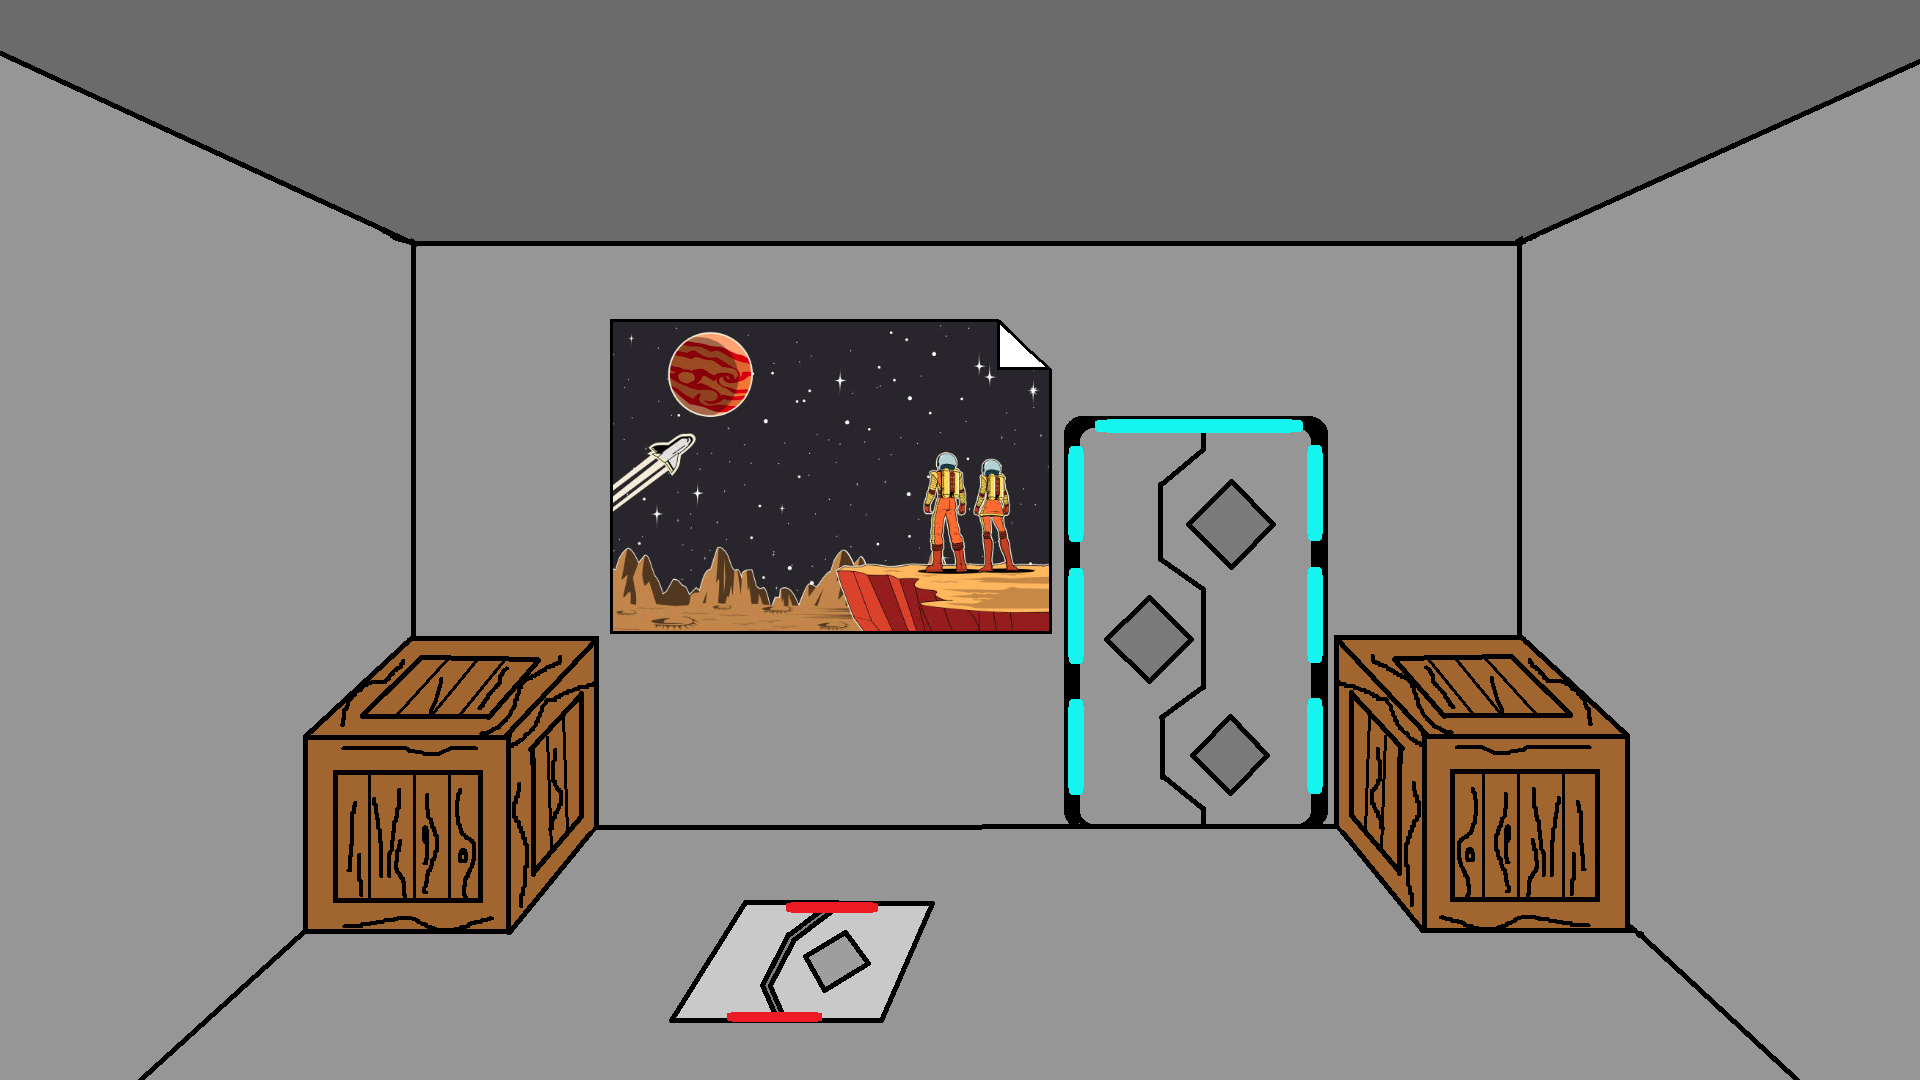
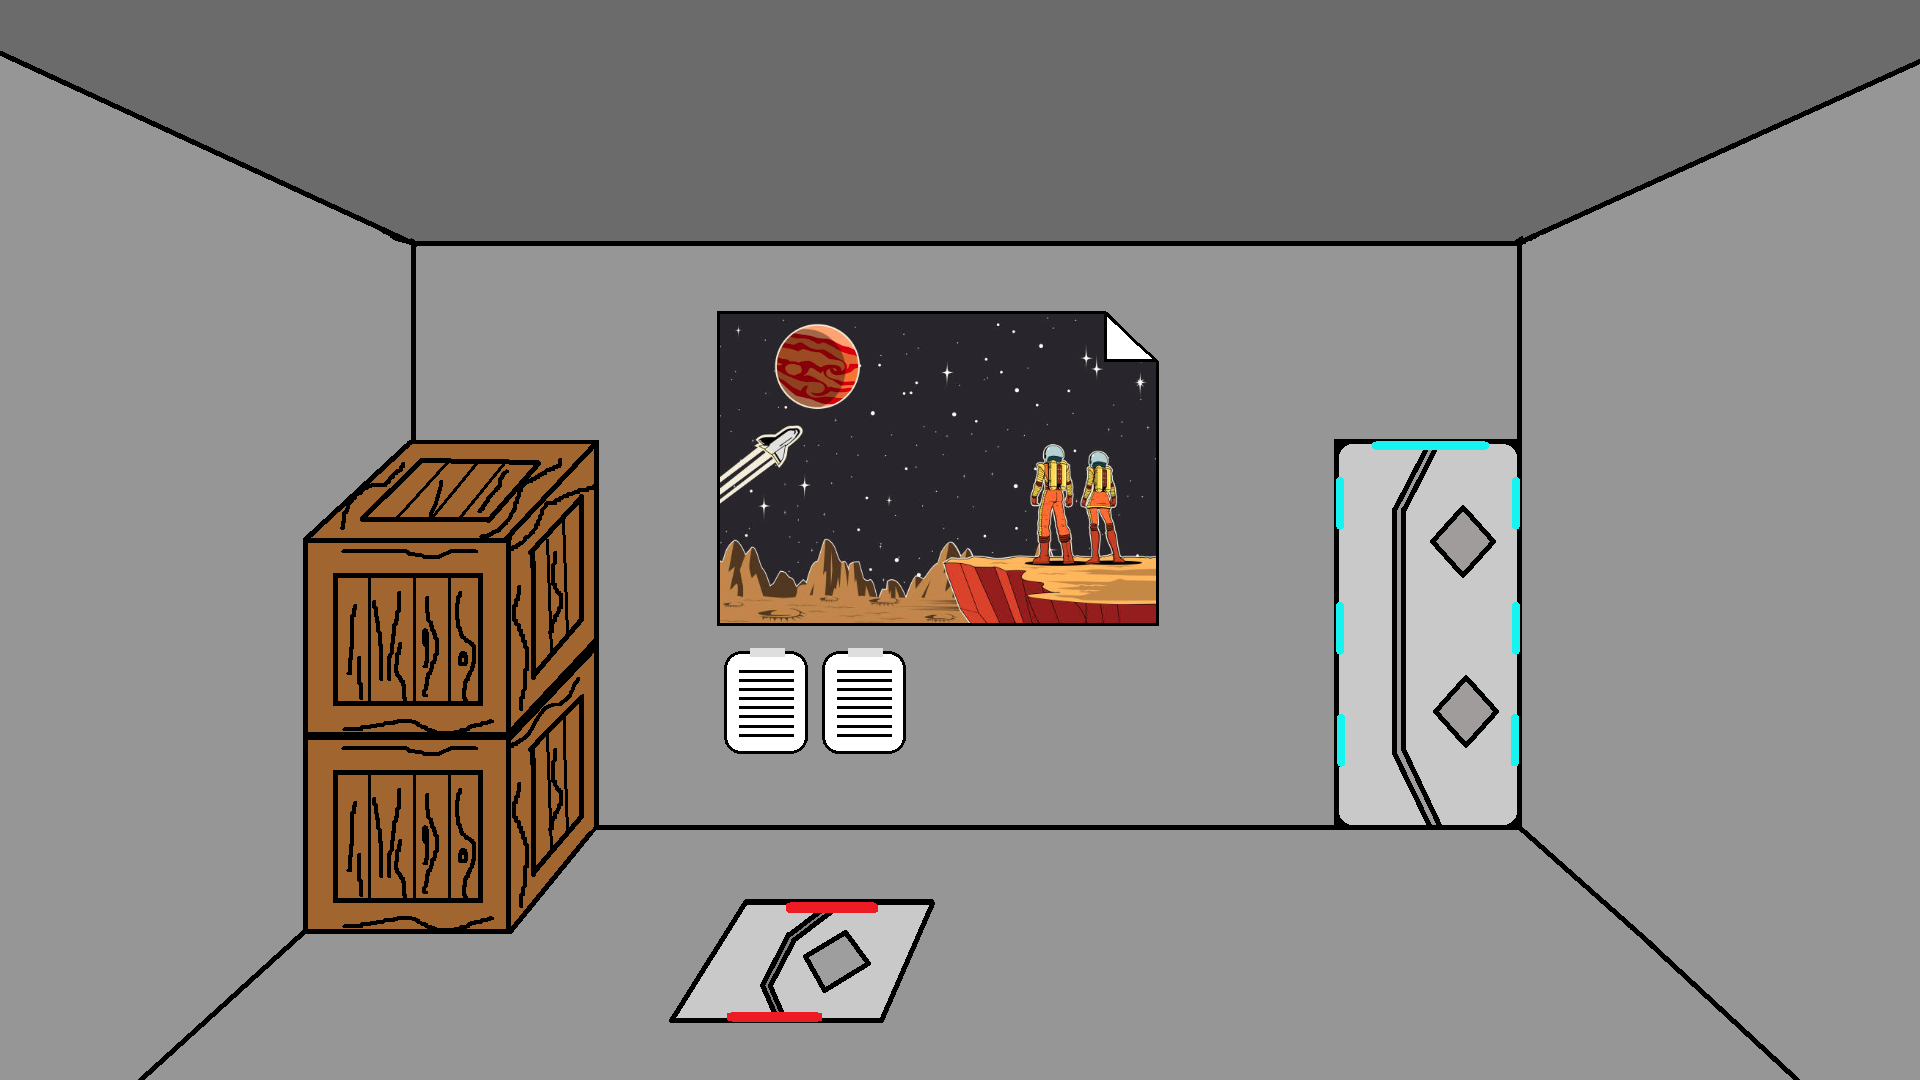
fix: Changed art with spacesuit position Revamped room two art Moved spacesuit to hide behind crate

Changed region(s): [[0.1562, 0.275, 0.875, 0.8861]]

diff --git a/src/main/java/nz/ac/auckland/se206/controllers/RoomTwoController.java b/src/main/java/nz/ac/auckland/se206/controllers/RoomTwoController.java
@@ -7,6 +7,8 @@ import javafx.scene.Parent;
 import javafx.scene.control.Label;
 import javafx.scene.image.ImageView;
 import javafx.scene.input.MouseEvent;
+import javafx.scene.layout.Pane;
+import javafx.scene.shape.Polygon;
 import javafx.scene.shape.Rectangle;
 import javafx.util.Duration;
 import nz.ac.auckland.se206.App;
@@ -17,14 +19,18 @@ import nz.ac.auckland.se206.SceneManager;
 import nz.ac.auckland.se206.SceneManager.AppUi;
 
 public class RoomTwoController {
+  @FXML private Pane room;
   @FXML private Label timerLabel;
   @FXML private ImageView toolBoxOpenImage;
   @FXML private ImageView toolBoxCollectedImage;
   @FXML private ImageView spacesuitRevealedImage;
   @FXML private ImageView spacesuitCollectedImage;
-  private CurrentScene currentScene = CurrentScene.getInstance();
   @FXML private Rectangle questionOne;
   @FXML private Rectangle questionTwo;
+  @FXML private Polygon crate;
+  @FXML private ImageView crateImage;
+
+  private CurrentScene currentScene = CurrentScene.getInstance();
 
   public void initialize() {
     System.out.println("RoomTwoController.initialize()");
@@ -57,6 +63,22 @@ public class RoomTwoController {
   public void clickQuestionTwo(MouseEvent event) throws IOException {
     Parent questionTwoRoot = SceneManager.getUiRoot(AppUi.QUESTION_TWO);
     App.getScene().setRoot(questionTwoRoot);
+  }
+
+  @FXML
+  public void clickCrate(MouseEvent event) {
+    System.out.println("Crate clicked");
+
+    if (GameState.isToolboxCollected) {
+      FadeTransition fadeTransition = new FadeTransition();
+      fadeTransition.setNode(crate);
+      fadeTransition.setFromValue(1); // starting opacity value
+      fadeTransition.setToValue(0); // ending opacity value (1 is fully opaque)
+      fadeTransition.setDuration(Duration.seconds(1)); // transition duration
+      fadeTransition.play();
+      room.getChildren().remove(crate);
+      room.getChildren().remove(crateImage);
+    }
   }
 
   @FXML
@@ -111,6 +133,7 @@ public class RoomTwoController {
     } else if (!GameState.isToolboxCollected) {
       collectToolbox();
       GameState.isToolboxCollected = true;
+      System.out.println("Toolbox collected");
     }
   }
 
